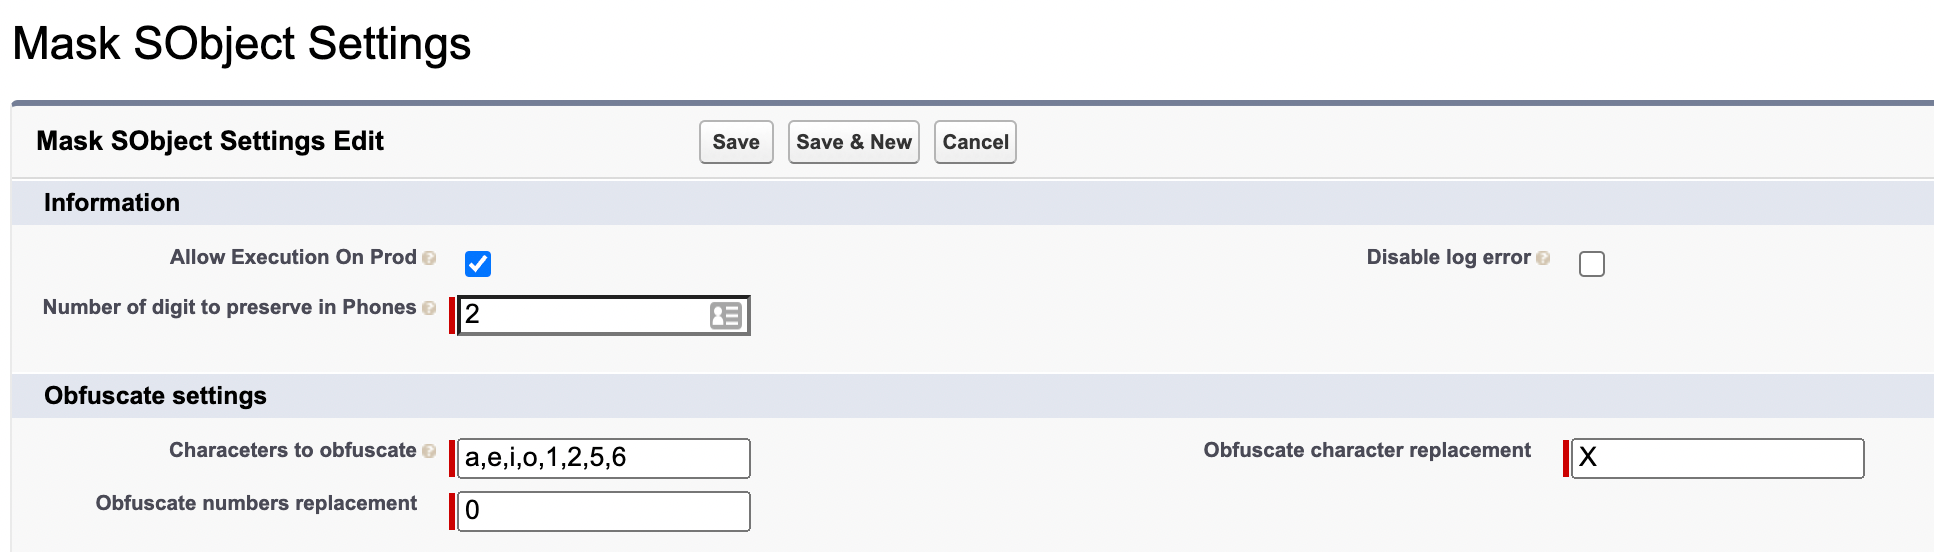
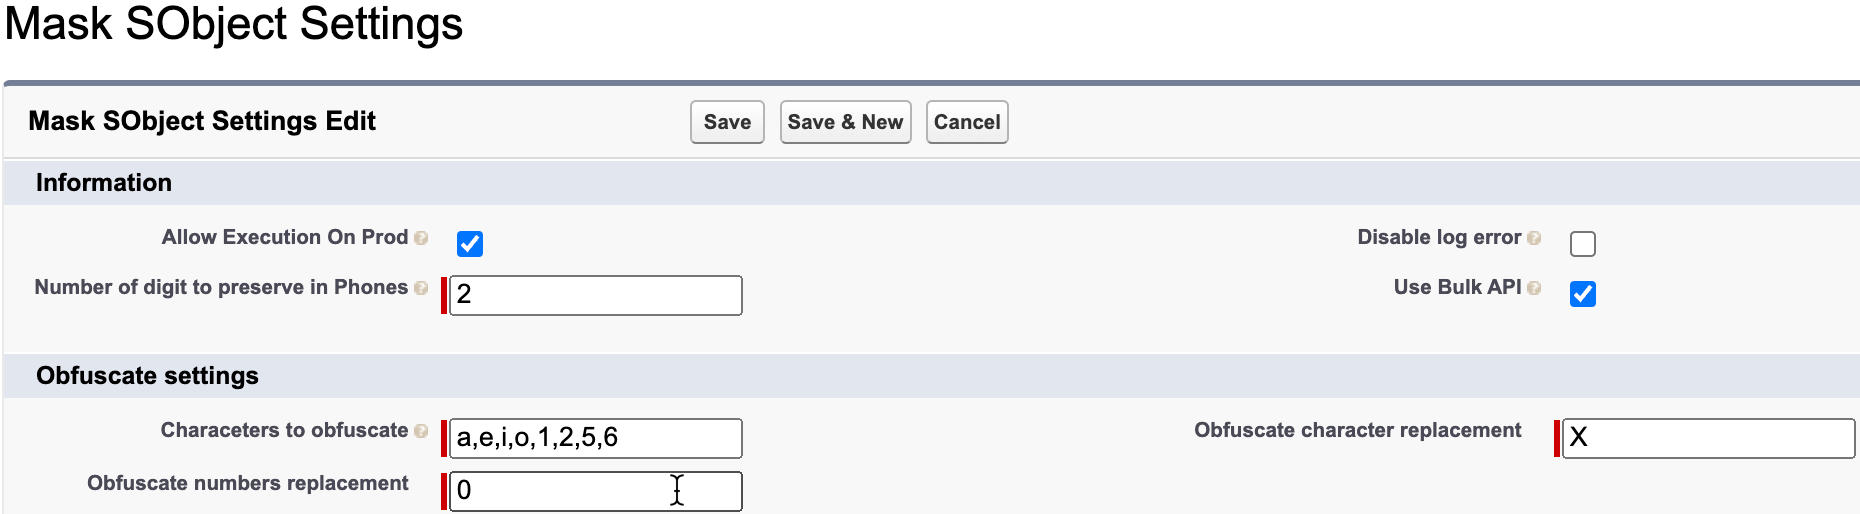
Add option to use bulk api

diff --git a/README.md b/README.md
@@ -90,10 +90,19 @@ Website used to generate the data https://www.mockaroo.com/
 You can customize some options by editing MaskSObjectSettings__mdt Default Custom Metadata
 - Allow execution on prod : enable this option to be able to run the batch on PROD (otherwise soql query returns no rows)
 - Configure the number of digits to preserve in standard Phone fields.
+- Use Bulk API to perform faster updates
 
 
 <img alt="Customize options" src="./screenshots/settings.png" />
 
+## Bulk API
+Make sure to check for the [Limits](https://developer.salesforce.com/docs/atlas.en-us.api_asynch.meta/api_asynch/bulk_common_limits.htm) and [compatible objects](https://developer.salesforce.com/docs/atlas.en-us.api_asynch.meta/api_asynch/how_requests_are_processed.htm).
+
+We recommend to start building your mask configuration with the bulk api option disable, it will be easier to check for errors at the beginning.
+Once your configuration is OK, you can enable Bulk API to perform faster updates.
+
+- Check for errors : sue the REST request to check for errors for a particular jobId "/services/data/v56.0/jobs/ingest/jobID/failedResults/"
+> **Warning** At the moment, the number of errors displayed in the MaskSObject record is not updated when using Bulk API
 
 ## Manage Errors
 Mask SObject Framework may throw some errors during the run, due to validation rules or implementation specificity in your org.
@@ -101,7 +110,7 @@ To be able to track and manage those errors, we implemented the MaskSObjectError
 
 <img alt="Errors" src="./screenshots/error.png" />
 
-If you want to, you can disable the error's record creation in the custom metadata settings.
+> **Note** If you want to, you can disable the error's record creation in the custom metadata settings.
 
 ### Errors Purge
 You can manage logs purge with the framework [SObject Purge Framework](https://github.com/tprouvot/purge-sobject)
